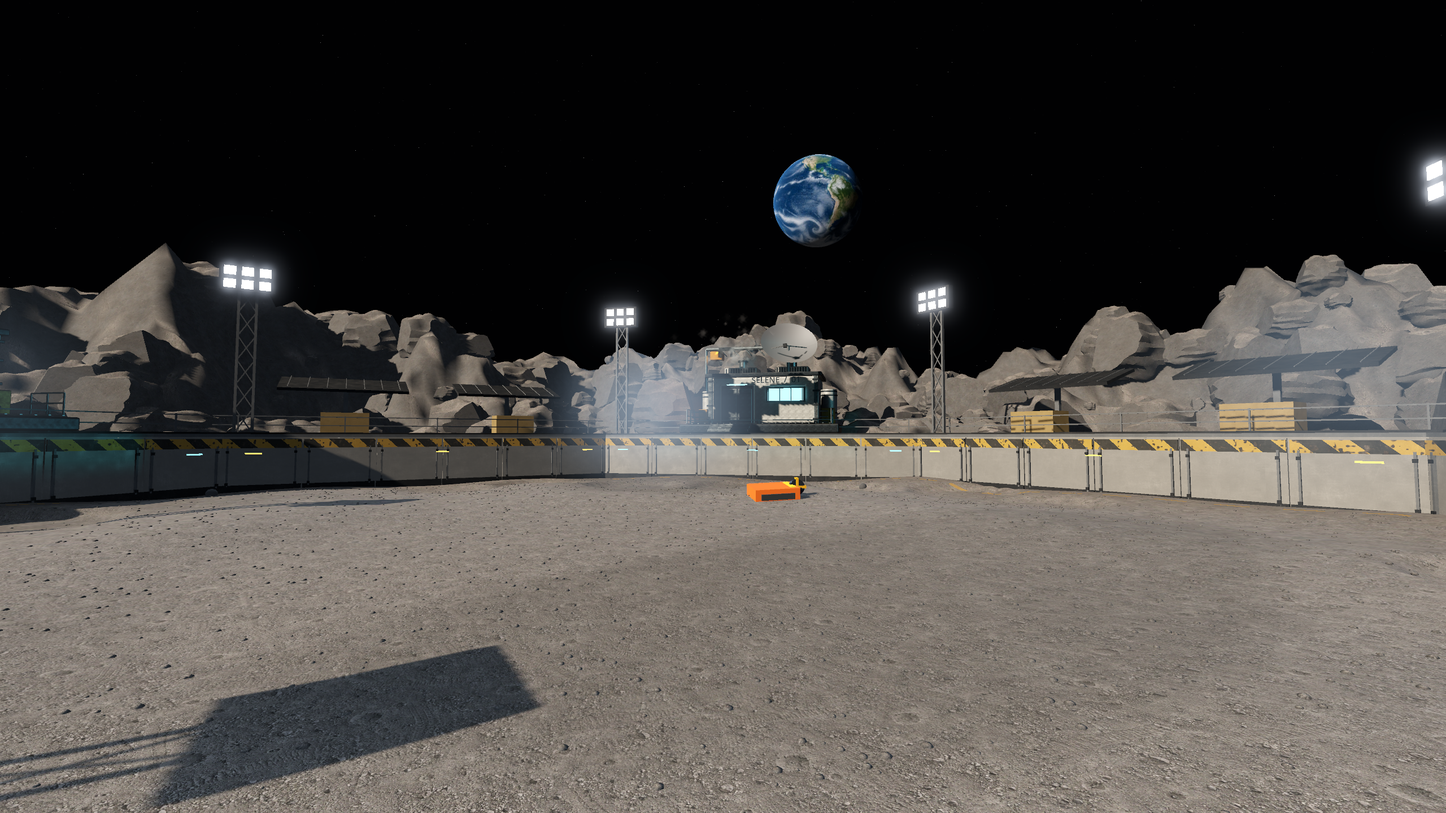
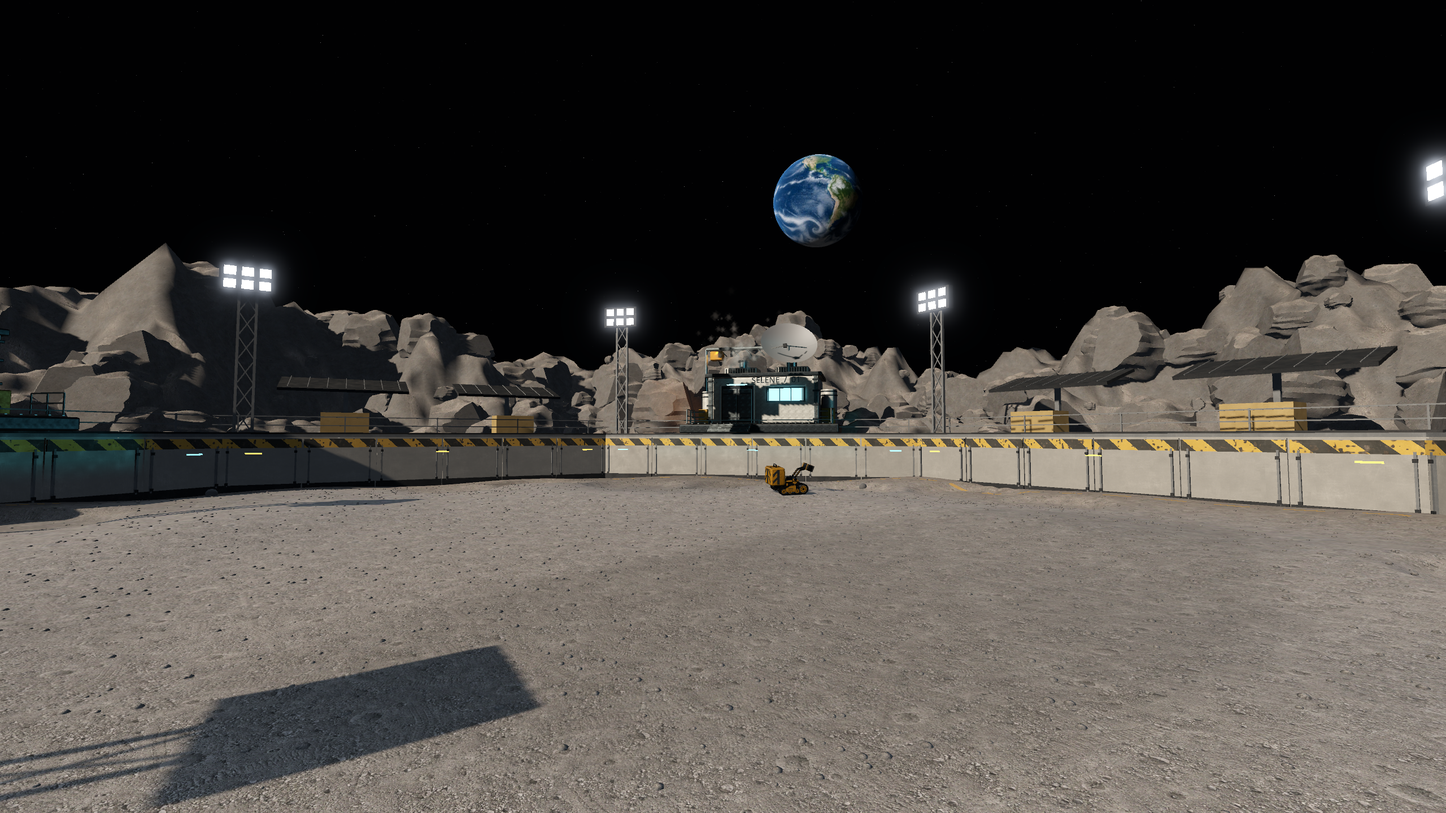
polish: localize lunar haze and verify detailed two-bot budget

diff --git a/docs/coordination/A_LUNAR_CINEMATIC.md b/docs/coordination/A_LUNAR_CINEMATIC.md
@@ -1,6 +1,7 @@
 # Cinematic lunar environment — Dev A
 
-Branch codex/a-lunar-cinematic, base 6c1eb0e. Custom Blender environment kit,
+Branch codex/a-lunar-cinematic, initial base 6c1eb0e, integrated against ea68e9b.
+Custom Blender environment kit,
 layered original materials, baked indirect light, dynamic sun/floodlights,
 localized animated fog, synchronized vent/beacon, layered dust and pooled tracks.
 Authoritative Moon surface, colliders, spawns, gravity, bot/control/network files
@@ -42,11 +43,20 @@ compatibility, Foundry four-client lifecycle, lightmap receiver and rendered eff
 lifecycle checks. Reviewed showcase, arena and reverse 1440p captures plus movement.
 
 RTX3080 / D3D12 Forward+ / 2560×1440 / 2×MSAA / uncapped / two moving bots:
-1080 warmed samples across three views. p50 3.403ms, p95 4.774ms, p99 5.095ms;
-engine peak tracked video allocation 1687MiB; highest system-wide GPU memory sample
-3430MiB. GPU samples taken per view; not a continuous hardware memory trace.
+1080 warmed samples across three views. Two current authored SawbladeConfig bots
+(saw and hammer), with physics and movement effects active. p50 3.596ms,
+p95 6.297ms, p99 16.306ms; engine peak tracked video allocation 1695MiB;
+highest system-wide GPU memory sample 3735MiB. GPU samples taken per view;
+not a continuous hardware memory trace. This fixture excludes HUD/network traffic
+and sustained weapon-impact effects; it is an arena benchmark, not a full match soak.
 Both requested thresholds passed on this machine; numbers are fixture-specific,
 not a guarantee for different GPUs, player counts or future bot assets.
+
+The full regression runner passed again after rebasing onto ea68e9b. A final
+rendered pass then validated the authored bots, reduced local fog density,
+bay-centered volumes and Earth fog exclusion. This keeps the black sky and
+combat sightlines clear while retaining illuminated vent plumes. Persistent
+measurement: [benchmark JSON](evidence/a-lunar-cinematic-2026-09-20.json).
 
 The pinned renderer prints a shutdown warning about seven leaked texture RIDs;
 no missing bake receivers, script errors or runtime errors remain in the accepted
